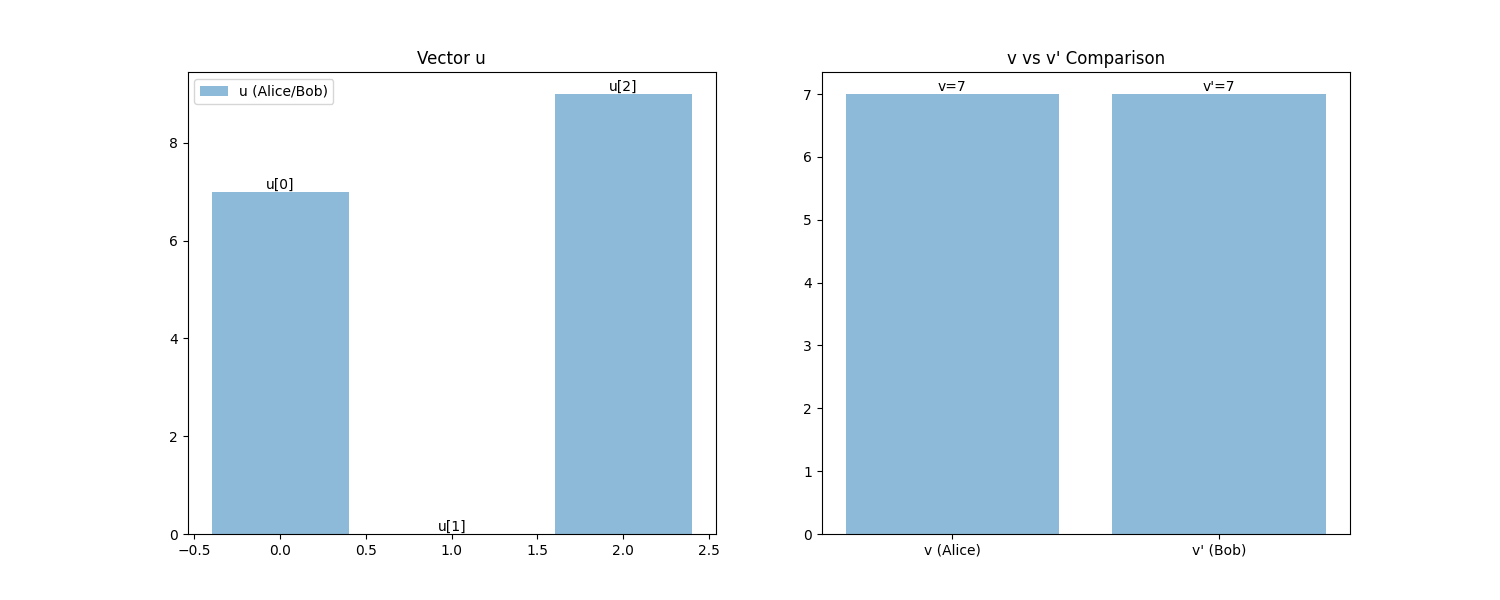
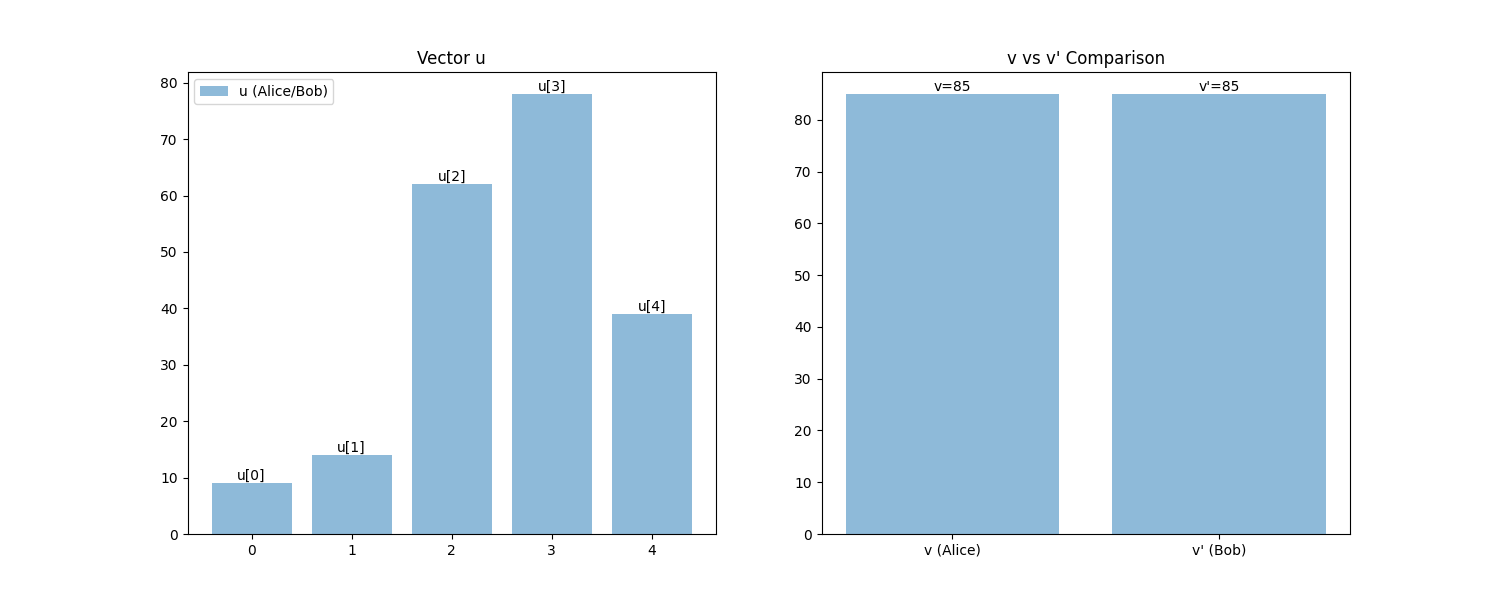
Add Explanation

diff --git a/templates/base.html b/templates/base.html
@@ -1,7 +1,7 @@
 <!DOCTYPE html>
 <html>
 <head>
-    <title>PQC Flask App</title>
+    <title>Quantum Safe Cryptography</title>
     <style>
         body { font-family: Arial, sans-serif; margin: 20px; }
         .container { max-width: 1400px; margin: auto; }
@@ -21,16 +21,16 @@
     </style>
     <link href="https://cdn.jsdelivr.net/npm/bootstrap@5.3.0/dist/css/bootstrap.min.css" rel="stylesheet">
     <script src="https://unpkg.com/@popperjs/core@2"></script>
+    <nav>
+    <a href="#" onclick="document.getElementById('readmeModal').style.display='block'">README</a>
+    <a href="#" onclick="document.getElementById('quantumModal').style.display='block'">Quantum Concepts</a>
+    <a href="#" onclick="document.getElementById('aboutModal').style.display='block'">About</a>
+    <a href="#" onclick="document.getElementById('explanationModal').style.display='block'">Explanation</a>
+</nav>
     <script src="https://unpkg.com/tippy.js@6"></script>
     <script src="https://cdn.jsdelivr.net/npm/bootstrap@5.3.0/dist/js/bootstrap.bundle.min.js"></script>
 </head>
 <body>
-    <nav>
-        <a href="#" onclick="document.getElementById('readmeModal').style.display='block'">README</a>
-        <a href="#" onclick="document.getElementById('quantumModal').style.display='block'">Quantum Concepts</a>
-        <a href="#" onclick="document.getElementById('aboutModal').style.display='block'">About</a>
-    </nav>
-
     <div class="modal" id="readmeModal">
         <div class="modal-content">
             <span class="close" onclick="document.getElementById('readmeModal').style.display='none'">&times;</span>
@@ -49,6 +49,13 @@
         <div class="modal-content">
             <span class="close" onclick="document.getElementById('aboutModal').style.display='none'">&times;</span>
             {{ about_content | safe }}
+        </div>
+    </div>
+
+    <div class="modal" id="explanationModal">
+        <div class="modal-content">
+            <span class="close" onclick="document.getElementById('explanationModal').style.display='none'">&times;</span>
+            {{ explanation_content | safe }}
         </div>
     </div>
 

diff --git a/app.py b/app.py
@@ -103,6 +103,79 @@ def index():
         except UnicodeDecodeError:
             decrypted = "Decryption failed (invalid UTF-8 sequence)"
 
+    # Generate dynamic explanation with user inputs and calculations
+    explanation_content = f"""
+    <h2>How Lattice Cryptography Works with Your Numbers</h2>
+<p>
+Think of this like a 3D treasure hunt where you’re hiding a secret path from quantum computers!  
+You chose <code>n={n}</code>, <code>q={q}</code>, and <code>noise scale={noise_scale}</code>.  
+Here’s how it all comes together—step by step, just like assembling a puzzle with the diagrams!
+</p>
+
+<ol>
+    <li><strong>Your Playground Size (<code>n={n}</code>)</strong><br>
+    The lattice is a grid with <code>{n}</code> dimensions, like a 3D jungle gym of points.  
+    Each direction is defined by a basis vector (B₁, B₂, B₃, …).  
+    The diagram shows these stretching out to form your mathematical playground!</li>
+
+    <li><strong>Your Secret Path (<code>s</code>)</strong><br>
+    Your secret vector is <code>s = {s.flatten().tolist()}</code>, a list of <code>{n}</code> numbers.  
+    It’s your hidden route through the lattice—marked as the “Clean Point” in the diagram.</li>
+
+    <li><strong>The Public Map (<code>A</code>)</strong><br>
+    You publish a matrix <code>A</code> of size <code>{n}×{n}</code>:  
+    <pre>{np.array2string(A, separator=', ')}</pre>
+    When you multiply it by your secret vector (<code>A @ s</code>), you get a clean lattice point.  
+    The “Clean Point” in the visual corresponds to this product!</li>
+
+    <li><strong>Wrapping Numbers (<code>q={q}</code>)</strong><br>
+    Everything happens modulo <code>{q}</code>, which means numbers “wrap around” after hitting <code>{q}</code>.  
+    It’s like a number clock that resets every <code>{q}</code> ticks.  
+    So we compute <code>(A @ s) mod {q}</code> to keep all coordinates within range.</li>
+
+    <li><strong>Adding Fog (Noise)</strong><br>
+    We introduce a small random “noise” vector <code>e</code> drawn from a normal distribution:  
+    <code>e = {np.random.normal(0, noise_scale, size=(n, 1)).flatten().tolist()}</code>  
+    This noise, scaled by <code>{noise_scale}</code>, makes the result fuzzy—shown as the black arrow shifting the clean point to the “Noisy Point.”</li>
+
+    <li><strong>Your Clue (<code>b</code>)</strong><br>
+    Now we combine the clean point and noise:  
+    <code>b = (A * s + e) mod {q} = {b.flatten().tolist()}</code>  
+    This becomes your encrypted clue sent to Bob.  
+    In the diagram, this is the noisy point floating near your secret!</li>
+
+    <li><strong>Bob’s Map (<code>u</code>)</strong><br>
+    Bob picks his own random vector <code>r</code> and computes:  
+    <code>u = (Aᵀ * r + e₁) mod {q} = {u.flatten().tolist()}</code>  
+    The chart labeled “Vector u” shows this as vertical bars—Bob’s version of your clue.</li>
+
+    <li><strong>Alice’s Output (<code>v</code>)</strong><br>
+    Using Bob’s <code>r</code>, Alice computes her shared value:  
+    <code>v = (bᵀ * r + e₂) mod {q} = {v}</code>  
+    This produces her half of the shared secret, visualized in the “v vs v” plot.</li>
+
+    <li><strong>Bob’s Guess (<code>v′</code>)</strong><br>
+    Bob uses his knowledge of <code>u</code> and your secret <code>s</code> to estimate:  
+    <code>v′ = (uᵀ * s) mod {q} = {v_prime}</code>  
+    The diagram compares <code>v</code> and <code>v′</code>—if they’re close, the secret matches despite the noise!</li>
+
+    <li><strong>Shared Secret Codes</strong><br>
+    Both sides derive cryptographic keys (<code>ss_alice</code> and <code>ss_bob</code>) from <code>u</code> and <code>v</code> (or <code>v′</code>).  
+    If it says “<em>Success: Yes</em>,” that means their secrets align—the system works!</li>
+
+    <li><strong>Locked Message (Ciphertext)</strong><br>
+    Finally, Alice encrypts your message <code>'{message}'</code> into ciphertext:  
+    <code>{ciphertext.hex()}</code>.  
+    If Bob’s derived code matches, he decrypts it back to <code>'{decrypted}'</code>—your hidden treasure revealed!</li>
+    </ol>
+
+    <p>
+    So this whole process is like a noisy treasure map:  
+    quantum computers get lost in the fog, but Bob—using the right math—finds the path.  
+    Try adjusting <code>n</code>, <code>q</code>, or <code>noise_scale</code> to see how the lattice shifts in your diagrams!
+    </p>
+    """
+
     # Plot lattice (increased size with corrected shapes)
     fig = plt.figure(figsize=(12, 9))
     ax = fig.add_subplot(111, projection='3d')
@@ -160,7 +233,7 @@ def index():
     return render_template('index.html', n=n, q=q, noise_scale=noise_scale, message=message,
                            ss_alice=ss_alice.hex(), ss_bob=ss_bob.hex(),
                            success=success, ciphertext=ciphertext.hex(), decrypted=decrypted,
-                           readme_content=readme_content, quantum_content=quantum_content, about_content=about_content)
+                           readme_content=readme_content, quantum_content=quantum_content, about_content=about_content, explanation_content=explanation_content)
 
 if __name__ == '__main__':
-    app.run(debug=True, port=5000)
+    app.run(host='0.0.0.0', port=5000, debug=True)
